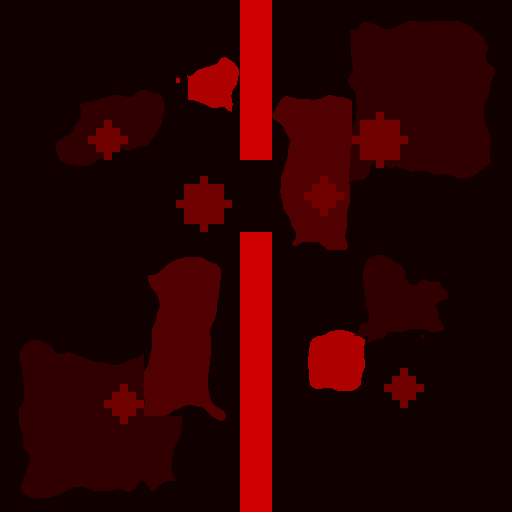
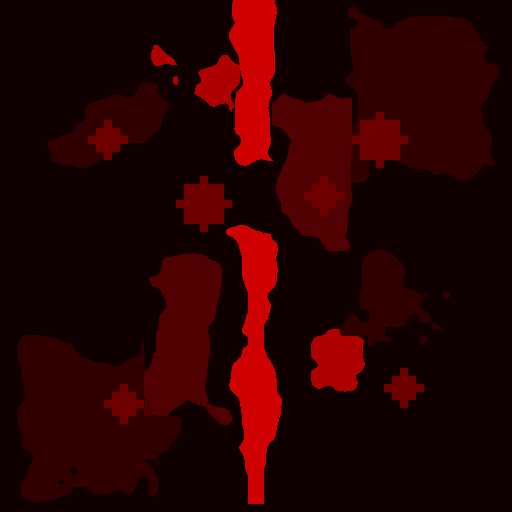
Improve terrain edges and prepare adaptive music stems

diff --git a/docs/GRAPHICS_AUDIO_PASS_2026-10-12.md b/docs/GRAPHICS_AUDIO_PASS_2026-10-12.md
@@ -4,9 +4,9 @@
 
 The rectangular surface blocks in the current missions come from authored rectangular `terrain_regions` in the map data. Fog of war is a separate overlay and was not the source of these blocks: the A/B capture revealed every cell for both players and separately disabled terrain detail and the fog pass.
 
-Each shipped mission now has a baked 8× supersampled visual material mask with organically eroded rock, dune, and crater borders. These masks are presentation-only: gameplay cells, collisions, movement costs, build restrictions, resources, and pathfinding remain exact. Hard cliff boundaries and Solarit resource cells are retained. The world sprite compensates for the larger texture so all masks cover the original map dimensions. They load from `assets/terrain_masks/` at mission start instead of synchronously running the expensive generator during gameplay. `tools/generate_terrain_visual_masks.gd` rebuilds the shipped masks from mission data.
+Each shipped mission has a baked 8× supersampled visual material mask with organically eroded rock, dune, crater, and restrained cliff-edge borders. These masks are presentation-only: gameplay cells, collisions, movement costs, build restrictions, resources, and pathfinding remain exact. Cliff interiors and Solarit resource cells are retained. The world sprite compensates for the larger texture so all masks cover the original map dimensions. They load from `assets/terrain_masks/` at mission start instead of synchronously running the expensive generator during gameplay. `tools/generate_terrain_visual_masks.gd` rebuilds the shipped masks from mission data.
 
-The local Vulkan acceptance capture uses the GeForce RTX 3060, revealed terrain, and the normal game renderer. It shows the organic boundaries in-game at two zoom levels; the mask generator and committed PNGs are compared for Veyra, Dry Vein, and Khepri, and tests confirm the simulation grid stays unchanged. Captures are stored in `test-output/terrain_irregular_boundaries.png` and `test-output/terrain_irregular_boundaries_detail.png`; the raw mask is `test-output/terrain_visual_mask.png`. A newly introduced mission without a baked mask still falls back to runtime generation and may incur a one-time loading stall until its mask is baked.
+The local Vulkan acceptance capture uses the GeForce RTX 3060, revealed terrain, and the normal game renderer. It shows the material boundaries in-game at two zoom levels; the mask generator and committed PNGs are compared for Veyra, Dry Vein, and Khepri, and tests confirm the simulation grid stays unchanged. The capture isolates terrain by disabling fog, detail meshes, units, buildings, combat, tracks, wrecks, health bars, and the heat overlay; a separate material-class image helps distinguish mask shape from shading. Captures are stored in `test-output/terrain_irregular_boundaries.png`, `test-output/terrain_irregular_boundaries_detail.png`, `test-output/terrain_material_only.png`, and `test-output/terrain_mask_classes.png`; the raw mask is `test-output/terrain_visual_mask.png`. A newly introduced mission without a baked mask still falls back to runtime generation and may incur a one-time loading stall until its mask is baked.
 
 ## Existing visual systems checked
 
@@ -14,16 +14,18 @@ The visual suite regenerates faction vehicle and building contact sheets and exe
 
 ## Audio status
 
-The installed voice catalog still has no German recordings: every line has an empty asset and is marked `recording_required`. The only Windows system voice found here is Microsoft Zira (`en-US`), so it cannot provide credible German faction voices. Music files named `*_demo.ogg` remain reference compositions, not final approved soundtrack. This pass did not relabel either as finished content.
+The installed voice catalog still has no German recordings: every line has an empty asset and is marked `recording_required`. The only Windows system voice found here is Microsoft Zira (`en-US`), so it cannot provide credible German faction voices. Music files named `*_demo.ogg` remain reference compositions, not a final approved soundtrack. Voltage Modular plus SOUND FORGE Audio Studio provide a possible workflow that does not depend on Music Maker, but no production sessions or recordings have been created yet. This pass did not relabel either as finished content.
 
-The demo files are complete arrangements rather than compatible stems. From v0.38.18, tactical states select one full arrangement and transition at bar boundaries; the four complete arrangements are no longer mixed simultaneously. The underlying demo compositions remain placeholders and still require replacement and human listening approval.
+The demo files are complete arrangements rather than compatible stems. From v0.38.18, tactical states select one full arrangement and transition at bar boundaries; the four complete arrangements are no longer mixed simultaneously. The runtime can now accept authored synchronized stems and fade them by combat state, with a safe fallback to existing arrangements. No authored stems are in the catalog yet, so the shipped music sounds unchanged. The underlying demo compositions remain placeholders and still require replacement and human listening approval.
 
 ## Validation
 
 - `Test-Solarit.ps1 -Group Gameplay -OverallTimeoutMinutes 20 -HeartbeatSeconds 30`: 8/8 PASS.
 - `Test-Solarit.ps1 -Group UI -OverallTimeoutMinutes 20 -HeartbeatSeconds 30`: 5/5 PASS, including update history and version labels.
 - `Test-Solarit.ps1 -OverallTimeoutMinutes 90 -HeartbeatSeconds 30`: 47/47 PASS across 12 groups; Multiplayer PASS; no Godot processes remained.
-- `tests/terrain_visual_acceptance.gd`: PASS on the RTX 3060 / Vulkan renderer; 8× mask data, cliff/resource preservation, all three generated-versus-baked mission masks, and unchanged simulation terrain checked.
+- `Test-Solarit.ps1 -Test terrain_visual_acceptance.gd -OverallTimeoutMinutes 10 -HeartbeatSeconds 30`: PASS on the RTX 3060 / Vulkan renderer; 8× mask data, irregular soft and cliff edges, cliff/resource preservation, all three generated-versus-baked mission masks, and unchanged simulation terrain checked.
+- `Test-Solarit.ps1 -Group Audio -OverallTimeoutMinutes 15 -HeartbeatSeconds 30`: 4/4 PASS, including adaptive stem sync, incomplete-set fallback, combat/critical fades, and pause behavior.
+- `Test-Solarit.ps1 -Group RendererCache -OverallTimeoutMinutes 20 -HeartbeatSeconds 30`: 6/6 PASS.
 - Terrain-mask generator cost on the local test build is about 300 ms per map; shipped missions avoid this cost by loading baked PNGs. The procedural fallback for a new mission should be removed from the critical path by baking that mission before distribution.
 - Candidate `v0.38.15` targeted gates: Visual 9/9, Audio 4/4, Gameplay 8/8, and `update_info.gd` PASS. The complete regression is the final remaining test gate for this candidate.
 - PowerShell 7.6.5 is required for the local regression supervisor in this environment: the test supervisor reports valid child exit codes there. Windows PowerShell 5.1 returned a null `Process.ExitCode` for the Python child despite a passing child log; no test or assertion was changed for that host-specific behavior.

diff --git a/docs/AUDIO_PRODUCTION_STATUS_2026-10-13.md b/docs/AUDIO_PRODUCTION_STATUS_2026-10-13.md
@@ -6,22 +6,22 @@ The current music is not approved as final. The project catalog marks the title 
 
 ## Available tools and realistic quality
 
-FFmpeg and FFprobe are installed. They support encoding, technical inspection, loudness measurement, format conversion, and asset validation, but they are not music composition, sound-design, or multitrack production tools. The project runtime is Godot. No DAW, sampler library, licensed field-recording collection, or mastered production stems were found in the checked local installation paths. FFmpeg filters and generated oscillators would not satisfy the requested sound-design standard, so they are not being used to manufacture replacement music.
+FFmpeg and FFprobe are installed for technical inspection, loudness measurement, conversion, and validation. Music Maker Premium 2023 is installed, but the requested production does not have to use it. The verified alternative is Voltage Modular as a standalone instrument/sequencer and SOUND FORGE Audio Studio for recording and editing; no separate multitrack DAW has been verified. Cherry Audio documents standalone operation and sequencer modules for Voltage Modular, so original patches and sequences can be captured without Music Maker. The commercial-use status of installed plugin modules, Soundpool loops, and bundled samples has not been established; do not ship any such material unless its license is verified. No licensed field-recording collection or mastered production stems have been verified. FFmpeg filters and generated oscillators would not satisfy the requested sound-design standard, so they are not being used to manufacture replacement music.
 
-The current OGG files are 48 kHz stereo and have loop lengths between about 106 and 160 seconds. Those format and duration values say nothing about musical quality, arrangement, clipping, loudness, or whether the cues pass the required listening checks. Existing `first_signal.wav` is a legacy asset; the live catalog points to `first_signal_demo.ogg`.
+The current OGG files are 48 kHz stereo and have loop lengths between about 106 and 160 seconds. An FFmpeg EBU R128 pass on 2026-10-13 measured integrated loudness from −19.9 to −18.1 LUFS, loudness range from 2.5 to 9.8 LU, and true peak from −9.2 to −1.7 dBFS. The six battle/alarm arrangements are at 2.5–4.7 LU LRA. This confirms consistent technical encoding and relatively narrow loudness movement in those cues; it does not by itself prove a musical quality defect or replace listening approval. Existing `first_signal.wav` is a legacy asset; the live catalog points to `first_signal_demo.ogg`.
 
 ## Existing runtime preparation
 
 `assets/audio/music_catalog.json` already provides per-faction calm, contact, battle, and alarm choices, tempo/meter and loop metadata, weights, and transition bars. `scripts/music_director.gd` loads full-mix arrangements, synchronizes their playback, and crossfades tactical states at bar boundaries. The menu has its own title stream. This is sufficient to replace the placeholder files in-place without replacing the Godot audio architecture.
 
-The current arrangement system does not yet provide authored multi-stem mixing: each tactical state is a complete mix, not a set of independently controllable percussion, bass, texture, and motif stems. The catalog can list alternate cues, but currently each faction/state has one demo. These are known gaps for the eventual production pass, not claims of completed features.
+The current music files still provide only complete demo mixes. The runtime now accepts an optional faction-level `adaptive_stems` set with synchronized `atmosphere`, `pulse`, `bass`, `rhythm`, `percussion`, `motif`, `combat`, and `critical` layers. It fades those layers against combat intensity and state, and falls back to the existing full-mix catalog if a set is incomplete. No actual stem files are present in the catalog, so this infrastructure produces no new audible music by itself. Each faction/state currently still has one demo, and the five requested intensity levels are not yet represented by approved compositions.
 
 ## Production needed before approval
 
-Create or commission original, commercially usable sessions and export at least the requested title, calm, and battle comparisons for all three factions. Kobalt needs heavy industrial percussion and moving mechanical bass; Wanderpakt needs rougher broken patterns and aggressive motion; Prisma needs complex spectral/granular timbres with a deep rhythmic foundation. Avoid imitating named soundtracks. Record source and license details in `THIRD_PARTY_NOTICES` when external material is used.
+Create or commission original, commercially usable sessions without depending on Music Maker and export at least the requested title, calm, and battle comparisons for all three factions. The available route is to author complex patches and sequences in Voltage Modular, record and edit in SOUND FORGE Audio Studio, and use only self-authored or license-verified material. Kobalt needs heavy industrial percussion and moving mechanical bass; Wanderpakt needs rougher broken patterns and aggressive motion; Prisma needs complex spectral/granular timbres with a deep rhythmic foundation. Avoid imitating named soundtracks. Record source and license details in `THIRD_PARTY_NOTICES` when external material is used.
 
 After import, verify clipping and integrated loudness technically, then listen to each track at 30 seconds, after five minutes, and in a real match. Only after those listening checks should catalog entries change to an approved production state. Until then, keep the demo filenames, placeholder status, and pending approvals. No claim of completed high-quality music is justified by this update.
 
 ## Scope of this update
 
-This is a production-readiness audit and guardrail only. It does not replace the music, add samples, or complete the broader graphics/audio brief. A suitable DAW or final licensed/commissioned assets are still needed for that work.
+This update prepares the runtime for authored music stems and records the production constraints; it does not replace the music, add voice samples, or complete the broader graphics/audio brief. The alternative toolchain above is available without Music Maker, but no production sessions, approved music, or recorded voice samples have been created yet.
